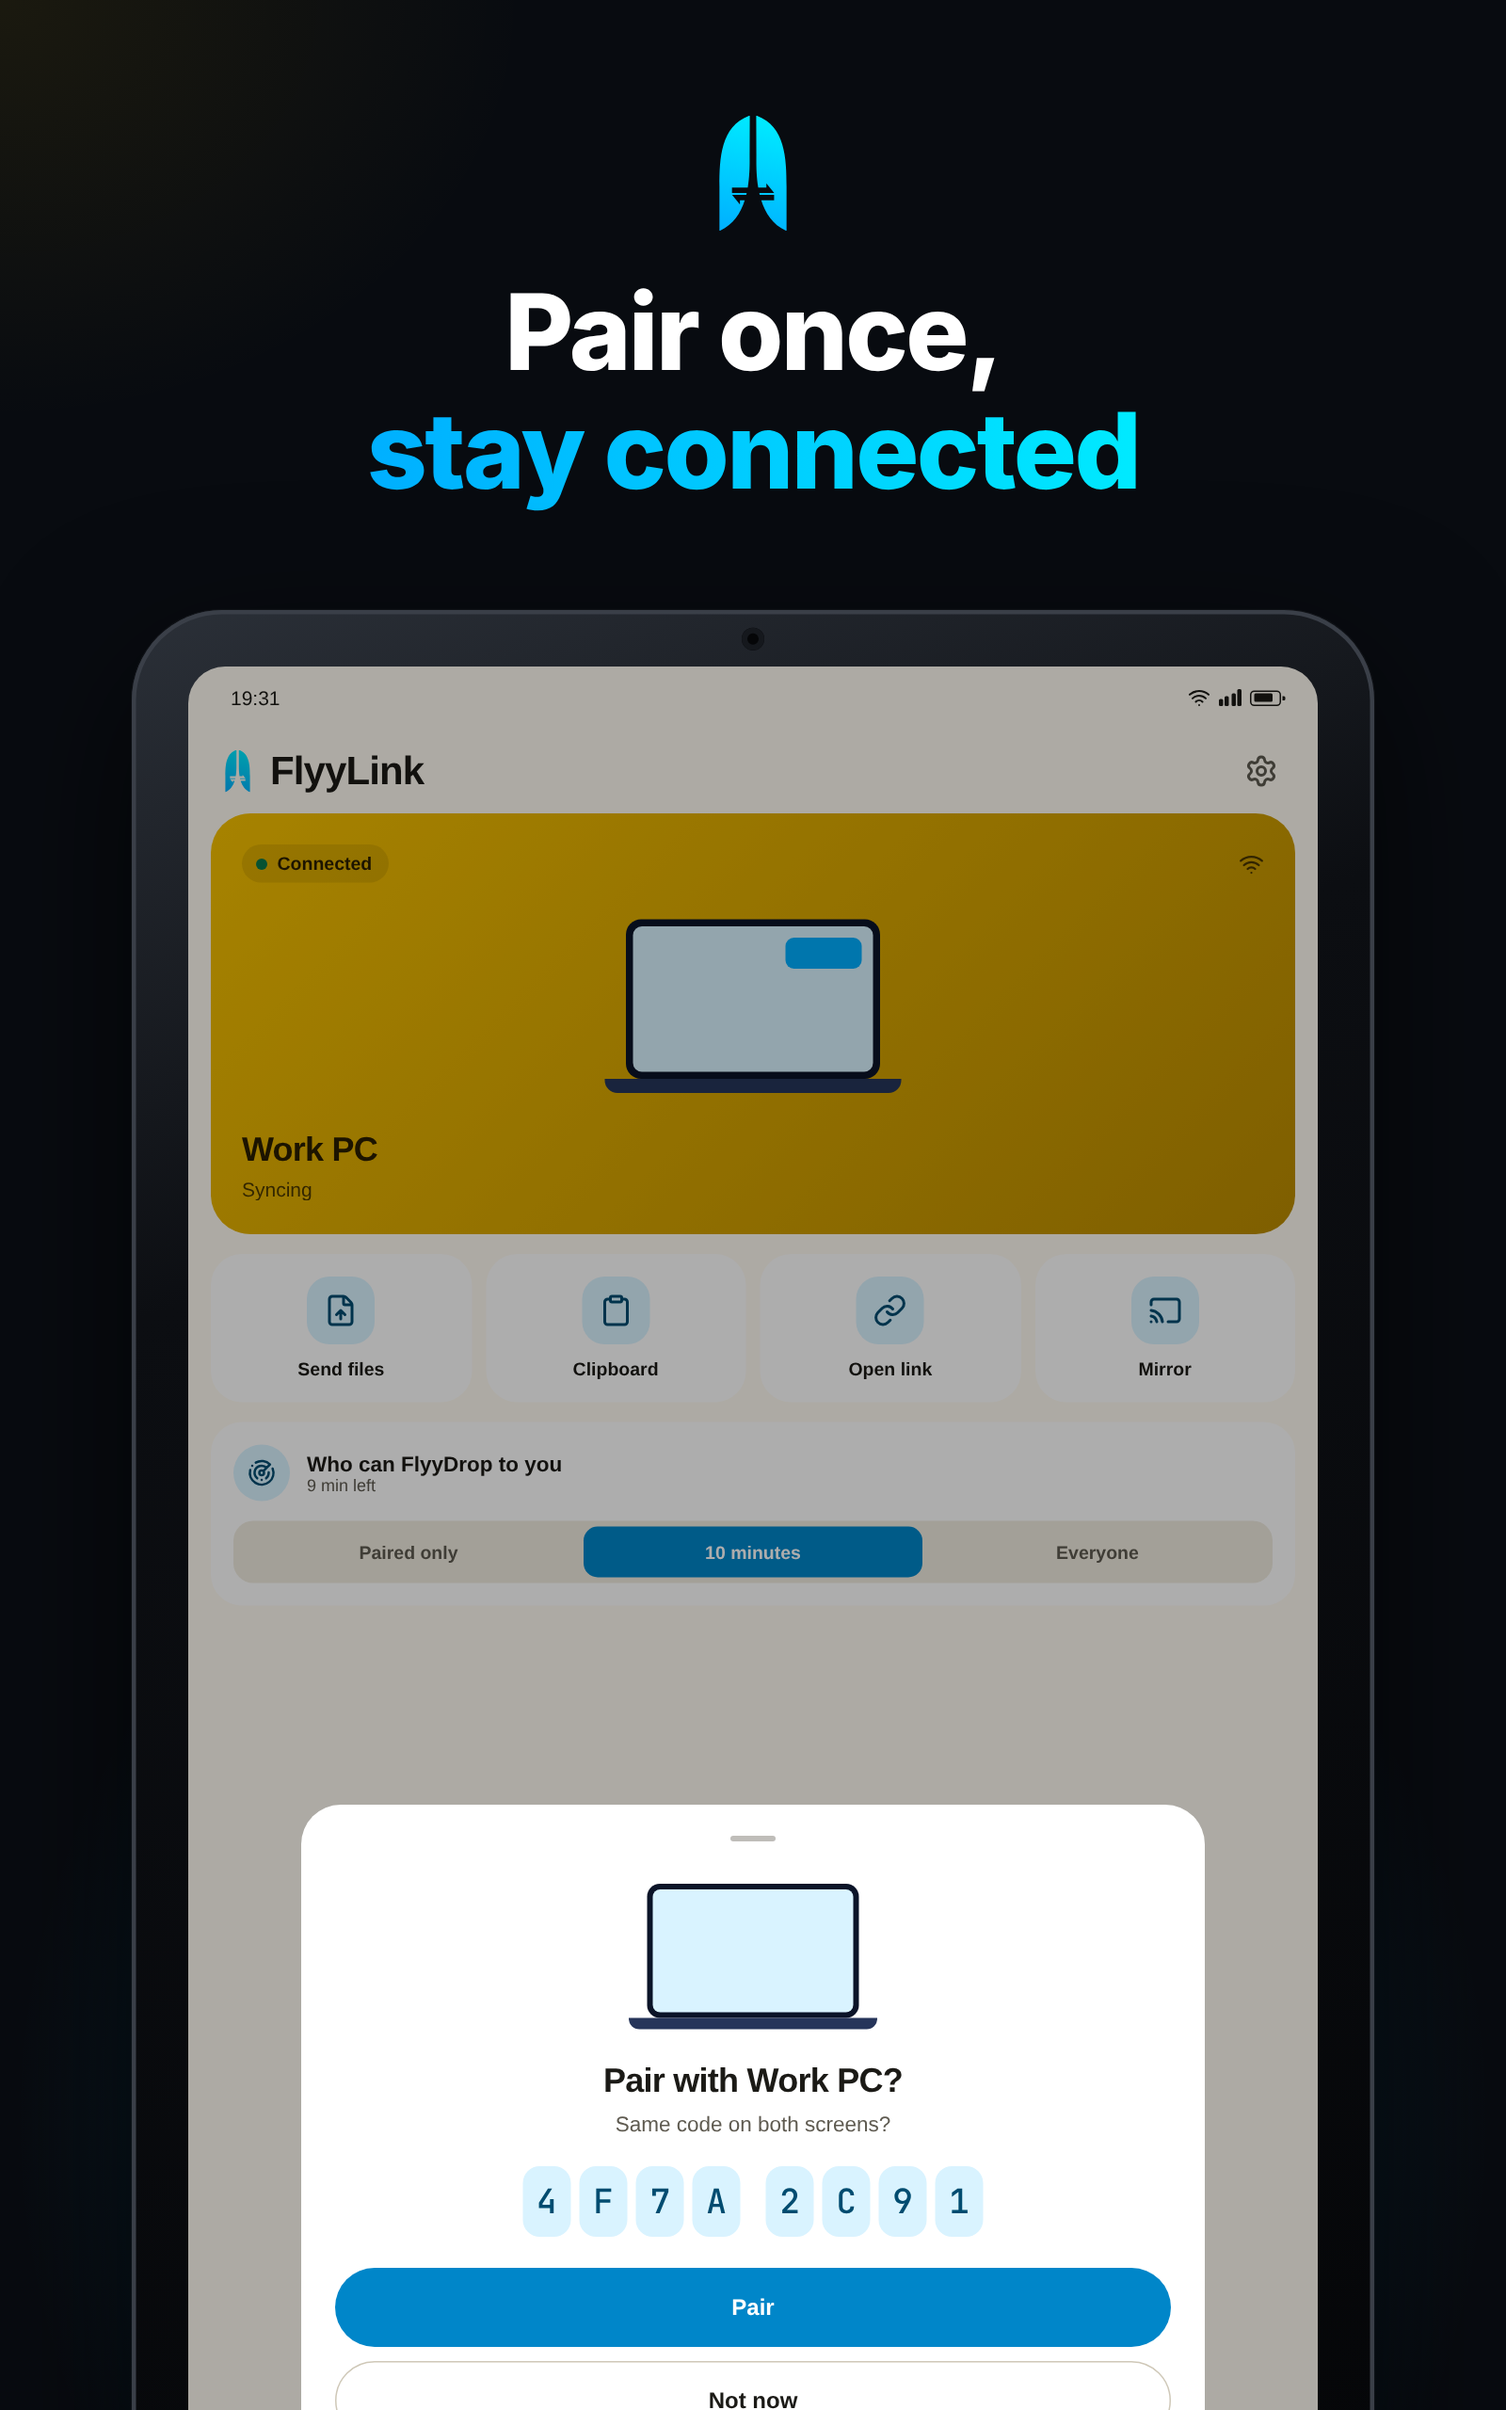
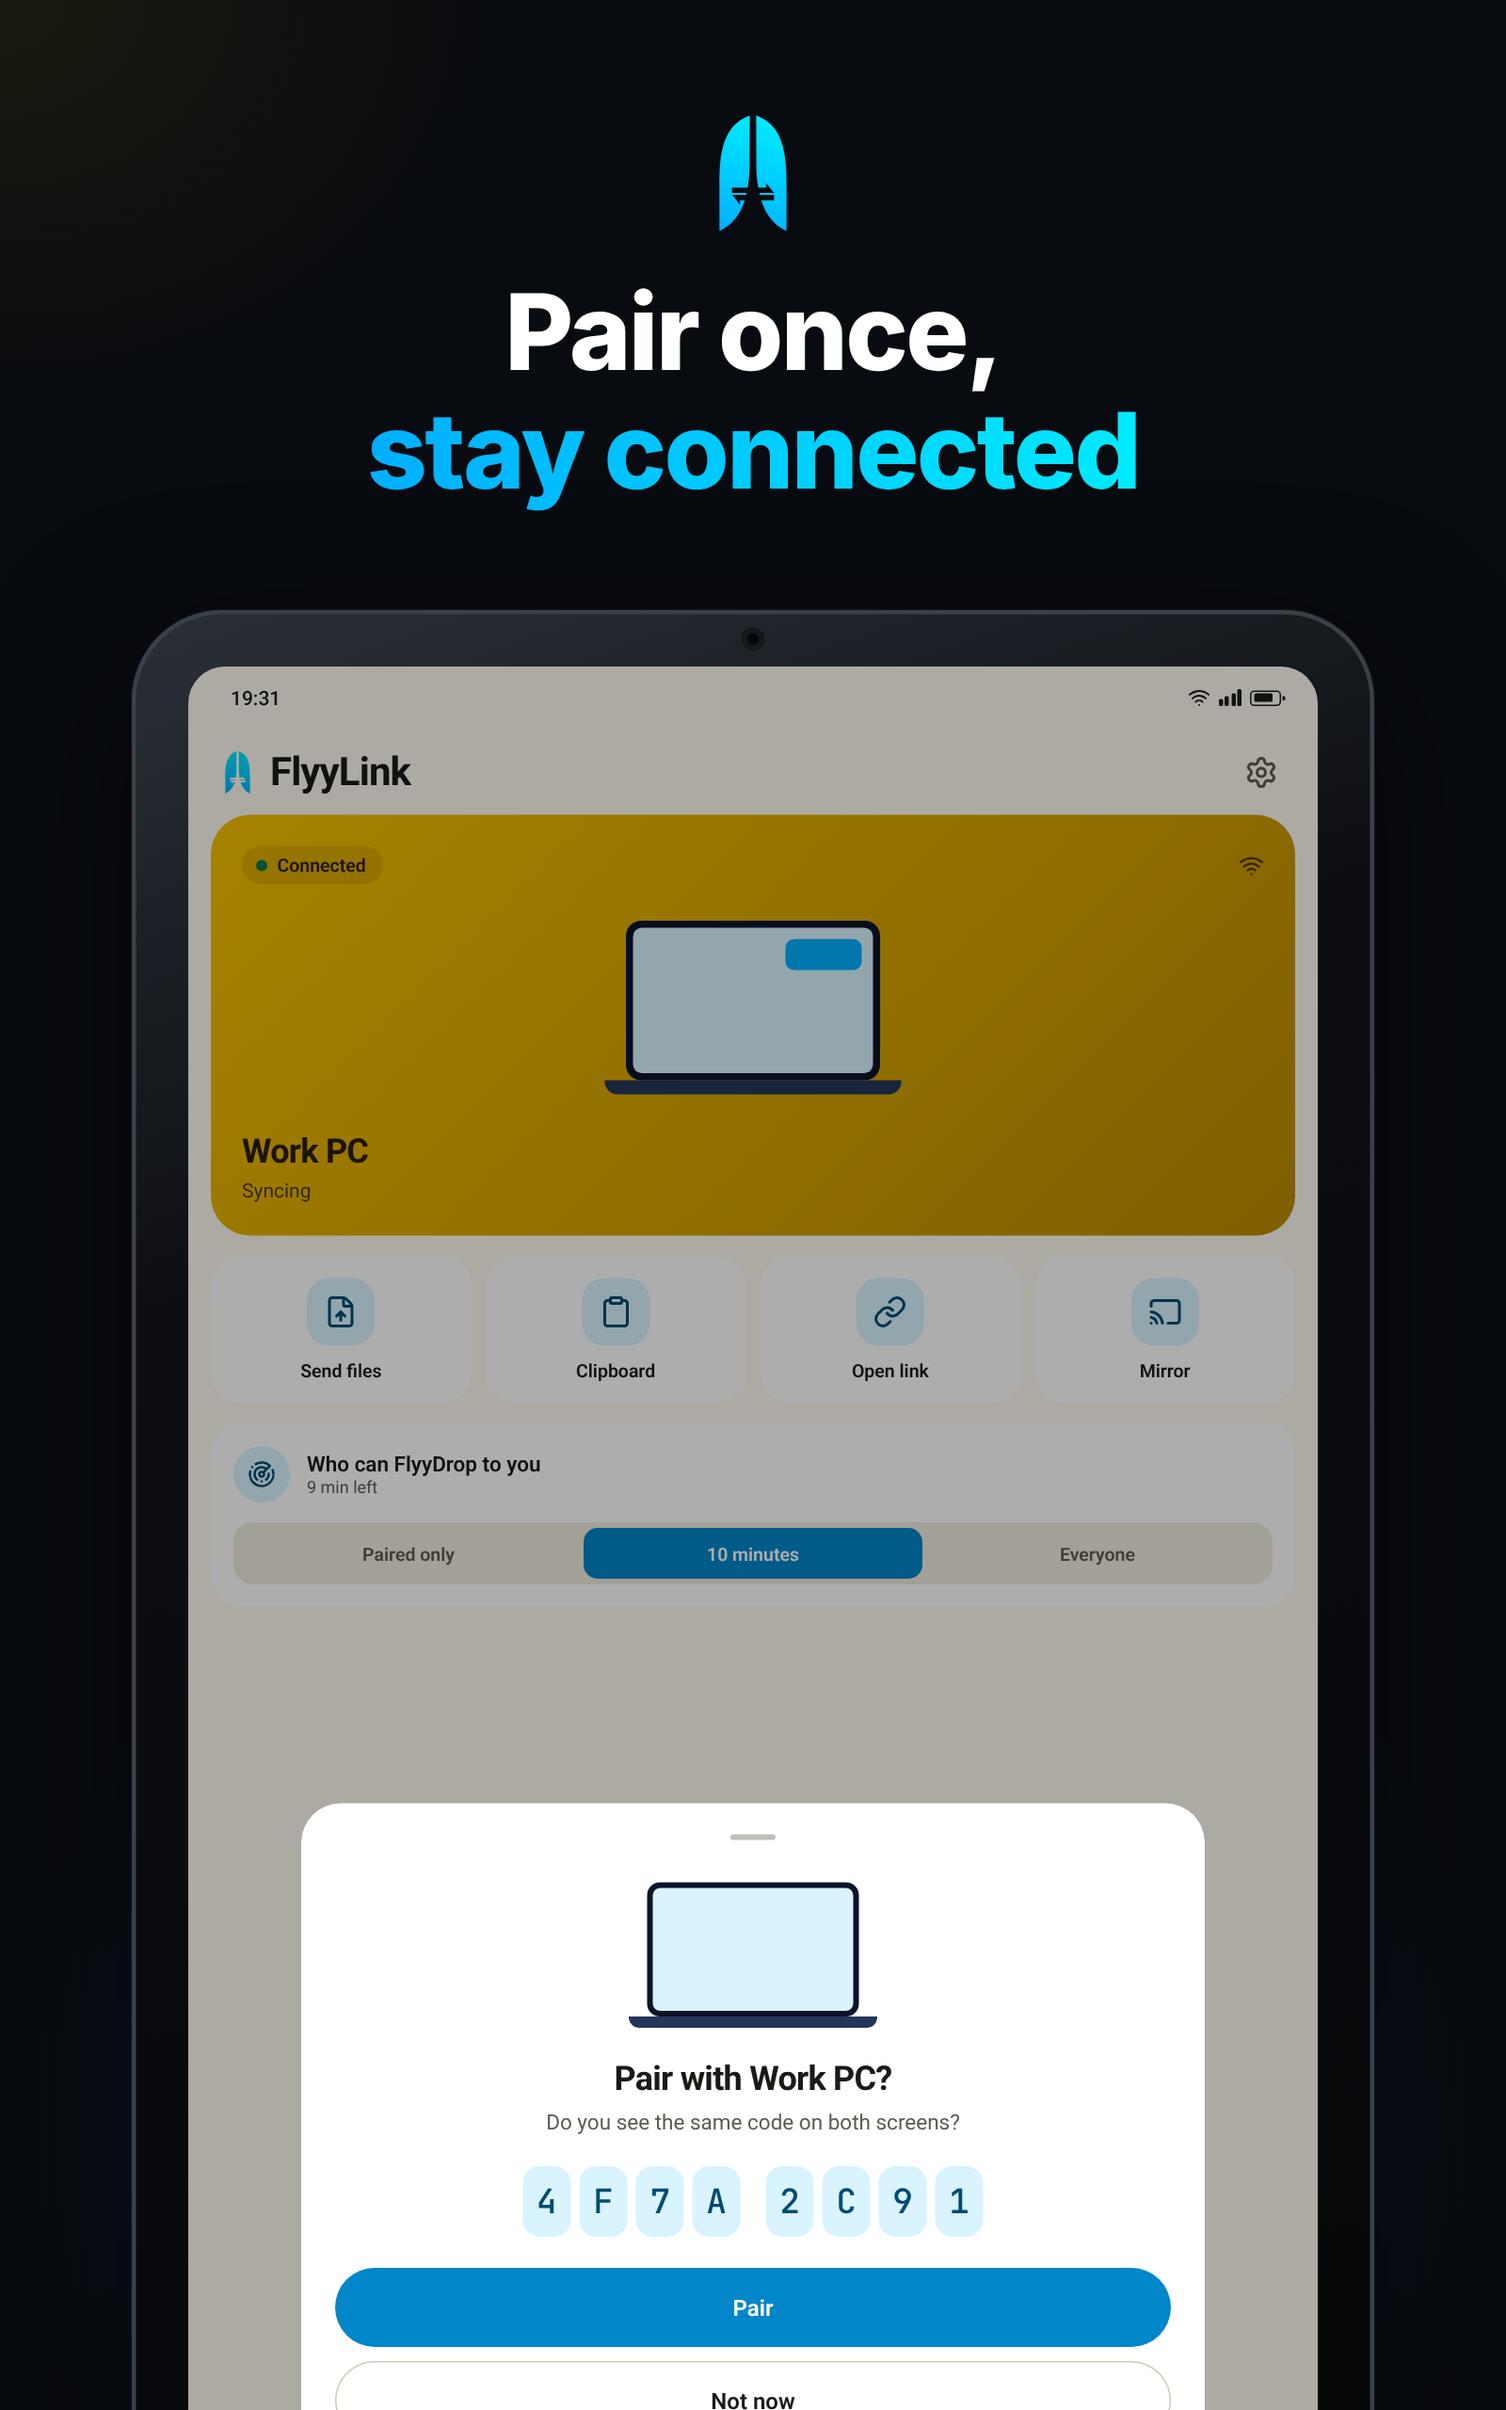
fix: friendlier wording in the Android app

diff --git a/store/android/page/app.js b/store/android/page/app.js
@@ -119,7 +119,7 @@ class AndroidApp {
 
     return this.sheet(`<div class="pair">
       ${this.laptop(150)}
-      <div><div class="title">Pair with ${name}?</div><div class="hint">Same code on both screens?</div></div>
+      <div><div class="title">Pair with ${name}?</div><div class="hint">Do you see the same code on both screens?</div></div>
       <div class="digits">${digits}</div>
       <div class="buttons"><div class="filled">Pair</div><div class="outlined">Not now</div></div>
     </div>`);
